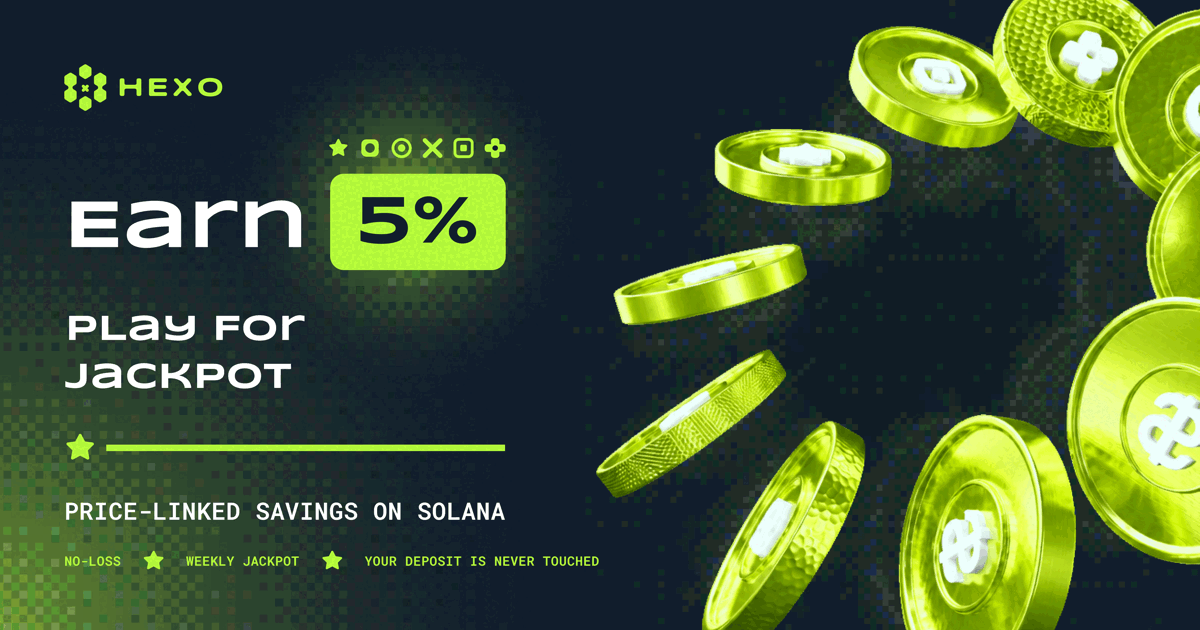
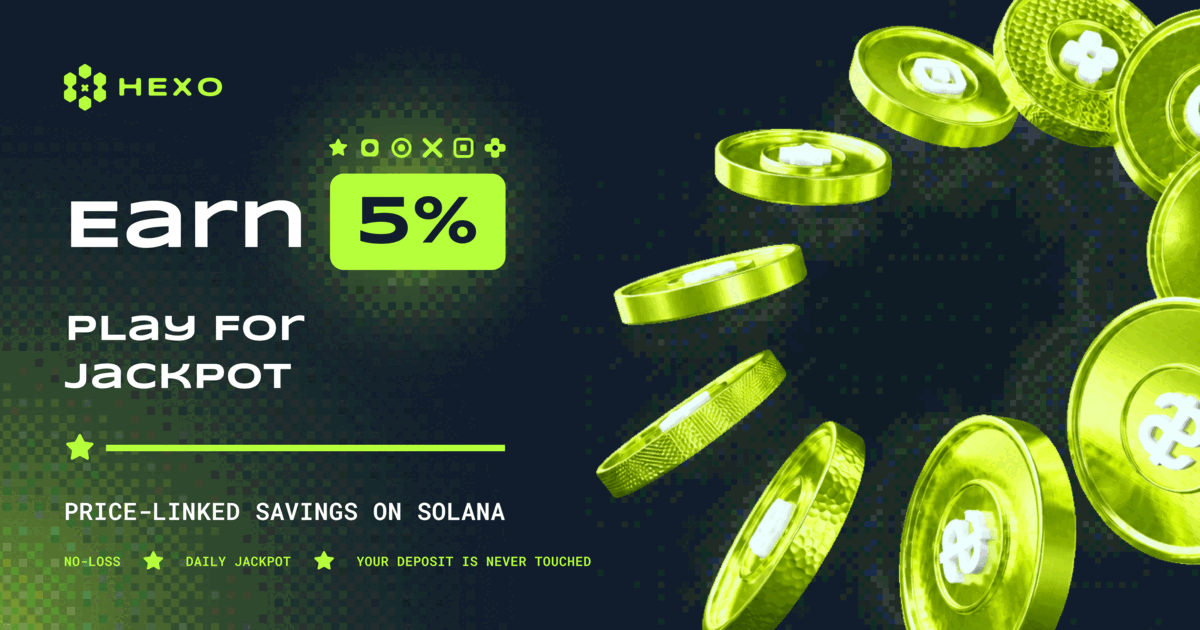
fix(web): swap the share card to the daily-jackpot artwork
The draw moved from weekly to daily, so the old card advertised a
cadence that no longer exists. Resize the new 4800x2520 export to
1200x630, quantize to an 8-bit palette (182 KB), and serve it from both
deploys. Update the two share descriptions and the og.html source that
still said weekly.

diff --git a/apps/web/index.html b/apps/web/index.html
@@ -6,7 +6,7 @@
     <title>HEXO.fun — Save your money. Play your luck.</title>
     <meta
       name="description"
-      content="Deposit USDC and earn a 5% base yield. Everything the pool earns above that goes into the weekly jackpot. Every dollar you deposit is a ticket."
+      content="Deposit USDC and earn a 5% base yield. Everything the pool earns above that goes into the daily jackpot. Every dollar you deposit is a ticket."
     />
     <link rel="canonical" href="https://www.hexofun.lol/" />
     <link rel="icon" href="/favicon.svg" type="image/svg+xml" />
@@ -18,7 +18,7 @@
     <meta property="og:title" content="Earn 5%. Play for jackpot." />
     <meta
       property="og:description"
-      content="Prize-linked savings on Solana. Your deposit earns 5% and never goes into the game — every dollar is a ticket in the weekly jackpot."
+      content="Prize-linked savings on Solana. Your deposit earns 5% and never goes into the game — every dollar is a ticket in the daily jackpot."
     />
     <meta property="og:image" content="https://www.hexofun.lol/og.png" />
     <meta property="og:image:width" content="1200" />

diff --git a/apps/landing/og.html b/apps/landing/og.html
@@ -143,7 +143,7 @@
   <div class="eyebrow">Prize-linked savings on Solana</div>
   <h1>Earn <b>5%</b>.<br />Play for jackpot.</h1>
   <div class="foot">
-    No-loss <i>·</i> Weekly jackpot <i>·</i> Your deposit is never touched
+    No-loss <i>·</i> Daily jackpot <i>·</i> Your deposit is never touched
   </div>
 </div>
 <script>
